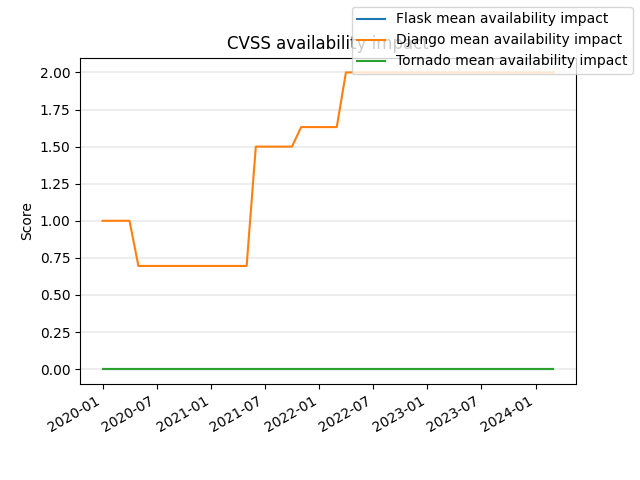
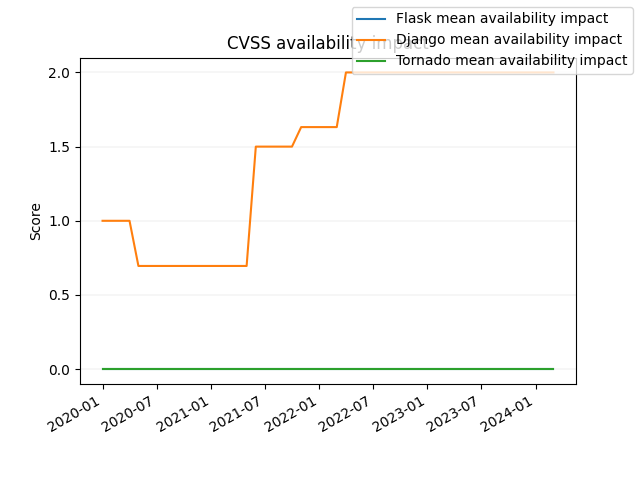
Update timeline plots

diff --git a/scripts/plotter.py b/scripts/plotter.py
@@ -32,7 +32,7 @@ parser.add_argument('-o', '--output', help='The output directory', default='outp
 parser.add_argument('--debug', help='The debug level of the logger', default='INFO')
 parser.add_argument('--show', help='Show the plots', action='store_true')
 
-FLASK_COLOURS = sns.color_palette('Set1', 9)
+sns.color_palette('Paired')
 
 args = parser.parse_args()
 
@@ -157,22 +157,27 @@ def plot_timelines(timelines: dict):
         figures_scores.append((fig, ax, kw))
         ax.set_title(title)
         ax.set_ylabel('Score')
-    pprint(timelines)
+    max_values = {}
     for project, data in timelines.items():
         _, project = get_platform(project)
         timeline = data.get('timeline')
         cves = data.get('cves')
-        print(cves)
         dates = [ entry.get('date') for entry in timeline ]
         for fig, ax, kw in figures_scores:
             cves_count = [ len(entry.get('cves', [])) for entry in timeline ]
             max_scores = []
             mean_scores = []
             median_scores = []
+            max_value = None
             for entry in timeline:
                 scrs = []
                 for cve in entry['cves']:
                     val = cves.get(cve, {}).get(kw)
+                    if max_value is None:
+                        if type(val) == str:
+                            max_value = 2
+                        else:
+                            max_value = 10
                     value = impact_to_int(val)
                     if type(value) not in [int, float]:
                         logger.warning(f"Unexpected value for {project}, keyword '{kw}' in {cve}: {value}")
@@ -186,6 +191,7 @@ def plot_timelines(timelines: dict):
                 max_scores.append(max(scrs))
                 mean_scores.append(np.mean(scrs))
                 median_scores.append(np.std(scrs))
+            max_values[kw] = max_value
             kw_name = kw.replace('cvss_', '').replace('_', ' ')
             ax.plot(dates, mean_scores, label=f"{project.title()} mean {kw_name}")
         ax_count.plot(dates, cves_count, label=f"{project.title()} # of CVEs")
@@ -196,8 +202,12 @@ def plot_timelines(timelines: dict):
     fig_count.autofmt_xdate()
     fig_count.savefig(plots_dir / "cves.png")
     for fig, ax, kw in figures_scores:
-        ax.set_ylabel('Score')
-        ax.grid(color='gray', linestyle='-', linewidth=0.2, axis='y', zorder=0)
+        max_value = max_values[kw]
+        ax.set_ylabel(f'Score')
+        step = 0.5 if max_value < 10 else 1
+        ax.yaxis.set_ticks(np.arange(0, max_value+0.1, step))
+        ax.yaxis.set_tick_params(labelleft='on')
+        ax.grid(color='gray', linestyle='-', linewidth=0.2, axis='y', zorder=0, alpha=step)
         fig.legend()
         fig.autofmt_xdate()
         fig.savefig(plots_dir / f"{kw}.png")
